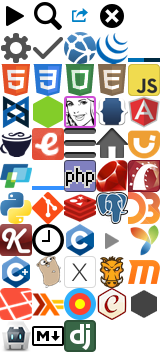
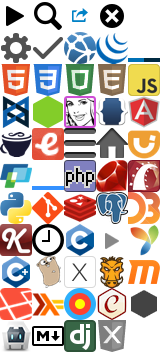
Add XPath documentation

Changed region(s): [[0.5938, 0.9062, 0.8125, 1.0]]

diff --git a/assets/stylesheets/global/_icons.scss b/assets/stylesheets/global/_icons.scss
@@ -64,3 +64,4 @@
 ._icon-cordova:before       { background-position: 0 -10rem; }
 ._icon-markdown:before      { background-position: -1rem -10rem; }
 ._icon-django:before        { background-position: -2rem -10rem; }
+._icon-xpath:before         { background-position: -3rem -10rem; }

diff --git a/lib/docs/filters/xpath/clean_html.rb b/lib/docs/filters/xpath/clean_html.rb
@@ -1,0 +1,30 @@
+module Docs
+  class Xpath
+    class CleanHtmlFilter < Filter
+      def call
+        root_page? ? root : other
+        doc
+      end
+
+      def root
+        if table = at_css('.topicpage-table')
+          table.after(table.css('td').children).remove
+        end
+      end
+
+      def other
+        css('div[style*="background: #f5f5f5;"]').remove
+
+        css('h3[id]').each do |node|
+          node.name = 'h2'
+        end
+
+        css('p').each do |node|
+          child = node.child
+          child = child.next while child && child.text? && child.content.blank?
+          child.remove if child.try(:name) == 'br'
+        end
+      end
+    end
+  end
+end

diff --git a/lib/docs/scrapers/mdn/xpath.rb b/lib/docs/scrapers/mdn/xpath.rb
@@ -1,0 +1,16 @@
+module Docs
+  class Xpath < Mdn
+    self.name = 'XPath'
+    self.base_url = 'https://developer.mozilla.org/en-US/docs/Web/XPath'
+
+    html_filters.push 'xpath/clean_html', 'xpath/entries', 'title'
+
+    options[:root_title] = 'XPath'
+
+    options[:fix_urls] = ->(url) do
+      url.sub! 'https://developer.mozilla.org/en/XPath', Xpath.base_url
+      url.sub! 'https://developer.mozilla.org/en-US/docs/XPath', Xpath.base_url
+      url
+    end
+  end
+end

diff --git a/lib/docs/filters/xpath/entries.rb b/lib/docs/filters/xpath/entries.rb
@@ -1,0 +1,22 @@
+module Docs
+  class Xpath
+    class EntriesFilter < Docs::EntriesFilter
+      def get_name
+        name = super
+        name.remove!('Axes.')
+        name << '()' if name.remove!('Functions.')
+        name
+      end
+
+      def get_type
+        if slug.start_with?('Axes')
+          'Axes'
+        elsif slug.start_with?('Functions')
+          'Functions'
+        else
+          'Miscellaneous'
+        end
+      end
+    end
+  end
+end
